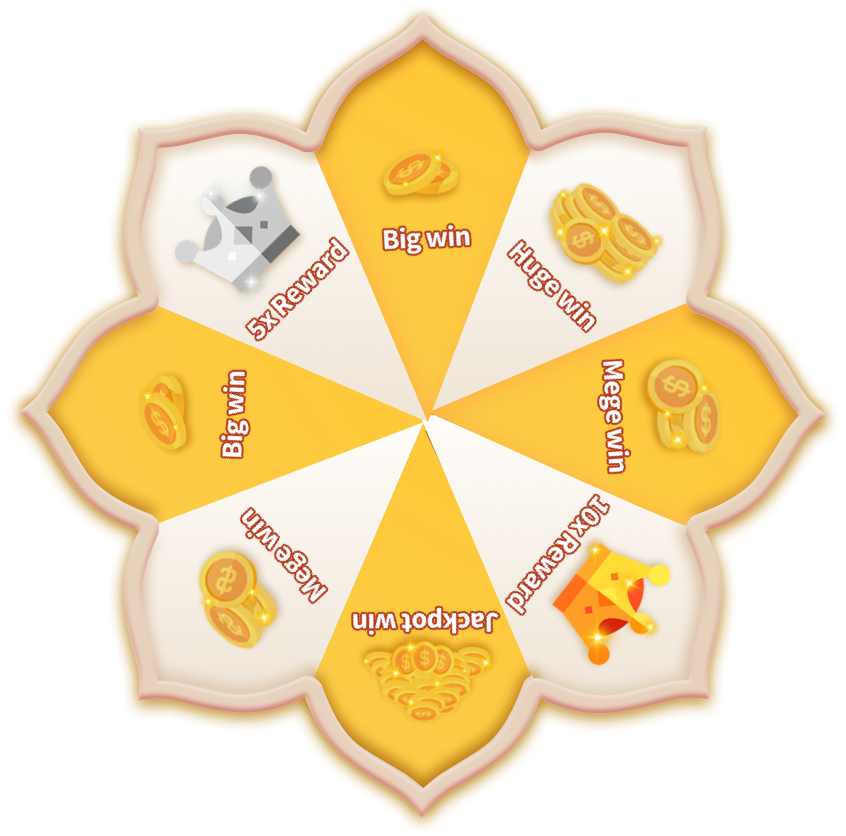
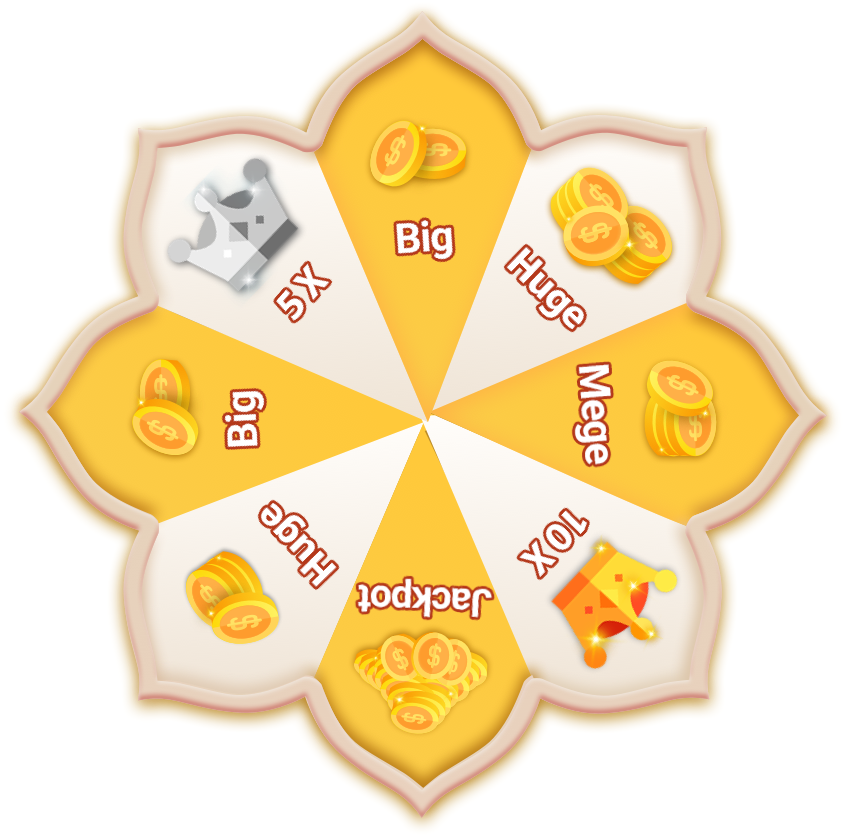
feat-大转盘ui

diff --git a/lib/pages/trip/game/lucky_wheel.dart b/lib/pages/trip/game/lucky_wheel.dart
@@ -246,7 +246,10 @@ class LuckyWheelWidgetState extends State<LuckyWheelWidget>
           // bottom: ScreenUtil().setWidth(30),
         ),
         child: ModalTitle(
-          "TICKET x ${ticketCount < 0 ? 0 : ticketCount}",
+          "Ticket x ${ticketCount < 0 ? 0 : ticketCount}",
+          shadows: [
+            BoxShadow(color: Colors.black, offset: Offset(0, 1), blurRadius: 2)
+          ],
           color: Colors.white,
         ),
       ),
@@ -260,6 +263,10 @@ class LuckyWheelWidgetState extends State<LuckyWheelWidget>
           textAlign: TextAlign.center,
           style: TextStyle(
 //              color: Color(0xFF7C7C7C),
+              shadows: [
+                BoxShadow(
+                    color: Colors.black, offset: Offset(0, 1), blurRadius: 2)
+              ],
               color: Colors.white,
               fontSize: ScreenUtil().setWidth(36),
               fontFamily: FontFamily.regular,
@@ -331,6 +338,12 @@ class LuckyWheelWidgetState extends State<LuckyWheelWidget>
                     handleStartSpin(data?.item3);
                   },
                   tipsColor: Colors.white,
+                  tipsShadows: [
+                    BoxShadow(
+                        color: Colors.black,
+                        offset: Offset(0, 1),
+                        blurRadius: 2)
+                  ],
                   tips:
                       "Number of videos reset at 12am&12pm (${data?.item1?.ad_times ?? 0} times left)");
             },
@@ -378,25 +391,25 @@ class LuckyWheelWidgetState extends State<LuckyWheelWidget>
     var x = 0.125;
     switch (pos) {
       case 8:
-        return 2*x;
+        return 2 * x;
         break;
       case 7:
-        return 4*x;
+        return 4 * x;
         break;
       case 6:
-        return 6*x;
+        return 6 * x;
         break;
       case 5:
-        return 8*x;
+        return 8 * x;
         break;
       case 4:
-        return 10*x;
+        return 10 * x;
         break;
       case 3:
-        return 12*x;
+        return 12 * x;
         break;
       case 2:
-        return 14*x;
+        return 14 * x;
         break;
       case 1:
         return 0;
@@ -405,6 +418,7 @@ class LuckyWheelWidgetState extends State<LuckyWheelWidget>
         return 0;
     }
   }
+
 //  double _getAngelWithSelectedPosition(int pos) {
 //    var x = 0.14, y = 0.22, z = 1 / 2;
 //    switch (pos) {

diff --git a/lib/widgets/ad_btn.dart b/lib/widgets/ad_btn.dart
@@ -47,6 +47,7 @@ class AdButton extends StatefulWidget {
   final List<Color> colorsOnBtn;
   final String adIconPath;
   final Map<String, String> adLogParam;
+  final List<Shadow> tipsShadows;
 
   AdButton(
       {Key key,
@@ -55,6 +56,7 @@ class AdButton extends StatefulWidget {
       this.adUnitIdFlag = 1,
       this.cancelText = 'No,Thanks',
       this.onCancel,
+      this.tipsShadows,
       this.colorsOnBtn = const <Color>[
         Color(0xFF42CE66),
         Color(0xFF42CE66),
@@ -253,6 +255,7 @@ class _AdButtonState extends State<AdButton> {
                                       ? MyTheme.tipsColor
                                       : widget.tipsColor,
                                   height: 1,
+                                  shadows: widget.tipsShadows,
                                   fontWeight: FontWeight.w400,
                                   fontFamily: FontFamily.regular,
                                   fontSize: ScreenUtil().setSp(30),

diff --git a/lib/theme/public/modal_title.dart b/lib/theme/public/modal_title.dart
@@ -9,15 +9,16 @@ class ModalTitle extends StatelessWidget {
   final num fontsize;
   final FontWeight fontWeight;
   final TextAlign textAlign;
+  final List<Shadow> shadows;
 
-  const ModalTitle(
-    this.text, {
-    Key key,
-    this.color = MyTheme.blackColor,
-    this.fontsize = 70,
-    this.fontWeight,
-    this.textAlign,
-  }) : super(key: key);
+  const ModalTitle(this.text,
+      {Key key,
+      this.color = MyTheme.blackColor,
+      this.fontsize = 70,
+      this.fontWeight,
+      this.textAlign,
+      this.shadows})
+      : super(key: key);
 
   @override
   Widget build(BuildContext context) {
@@ -26,6 +27,7 @@ class ModalTitle extends StatelessWidget {
         overflow: TextOverflow.ellipsis,
         style: TextStyle(
             fontSize: ScreenUtil().setSp(fontsize),
+            shadows: shadows,
             color: color,
             height: 1,
             fontFamily: FontFamily.bold,

diff --git a/lib/provider/money_group.dart b/lib/provider/money_group.dart
@@ -118,7 +118,6 @@ class MoneyGroup with ChangeNotifier {
           bool timeReached =
               timerList != null && timerList.isNotEmpty ? false : true;
 
-          timeReached = true;
           // 关闭后出现分享活动弹框或者Cash Gift Packs
           if (!timeReached) {
             Layer.showSevenDaysInviteEventWindow(context);

diff --git a/lib/widgets/layer.dart b/lib/widgets/layer.dart
@@ -1449,6 +1449,7 @@ class Layer {
         onCancel: () {},
         width: 900,
         closeType: CloseType.CLOSE_TYPE_TOP_RIGHT,
+        closeIconPath: 'assets/image/close_icon_modal_bottom_center.png',
         verticalPadding: 0,
         horizontalPadding: 0,
         childrenBuilder: (modal) => <Widget>[

diff --git a/lib/pages/mine/widthdraw.dart b/lib/pages/mine/widthdraw.dart
@@ -804,7 +804,7 @@ class _Enjoy {
         Container(
           height: ScreenUtil().setWidth(20),
         ),
-        ModalTitle("Enjoy Lucky Merge"),
+        ModalTitle("Enjoy Merge Garden"),
         Container(
           height: ScreenUtil().setWidth(100),
         ),
